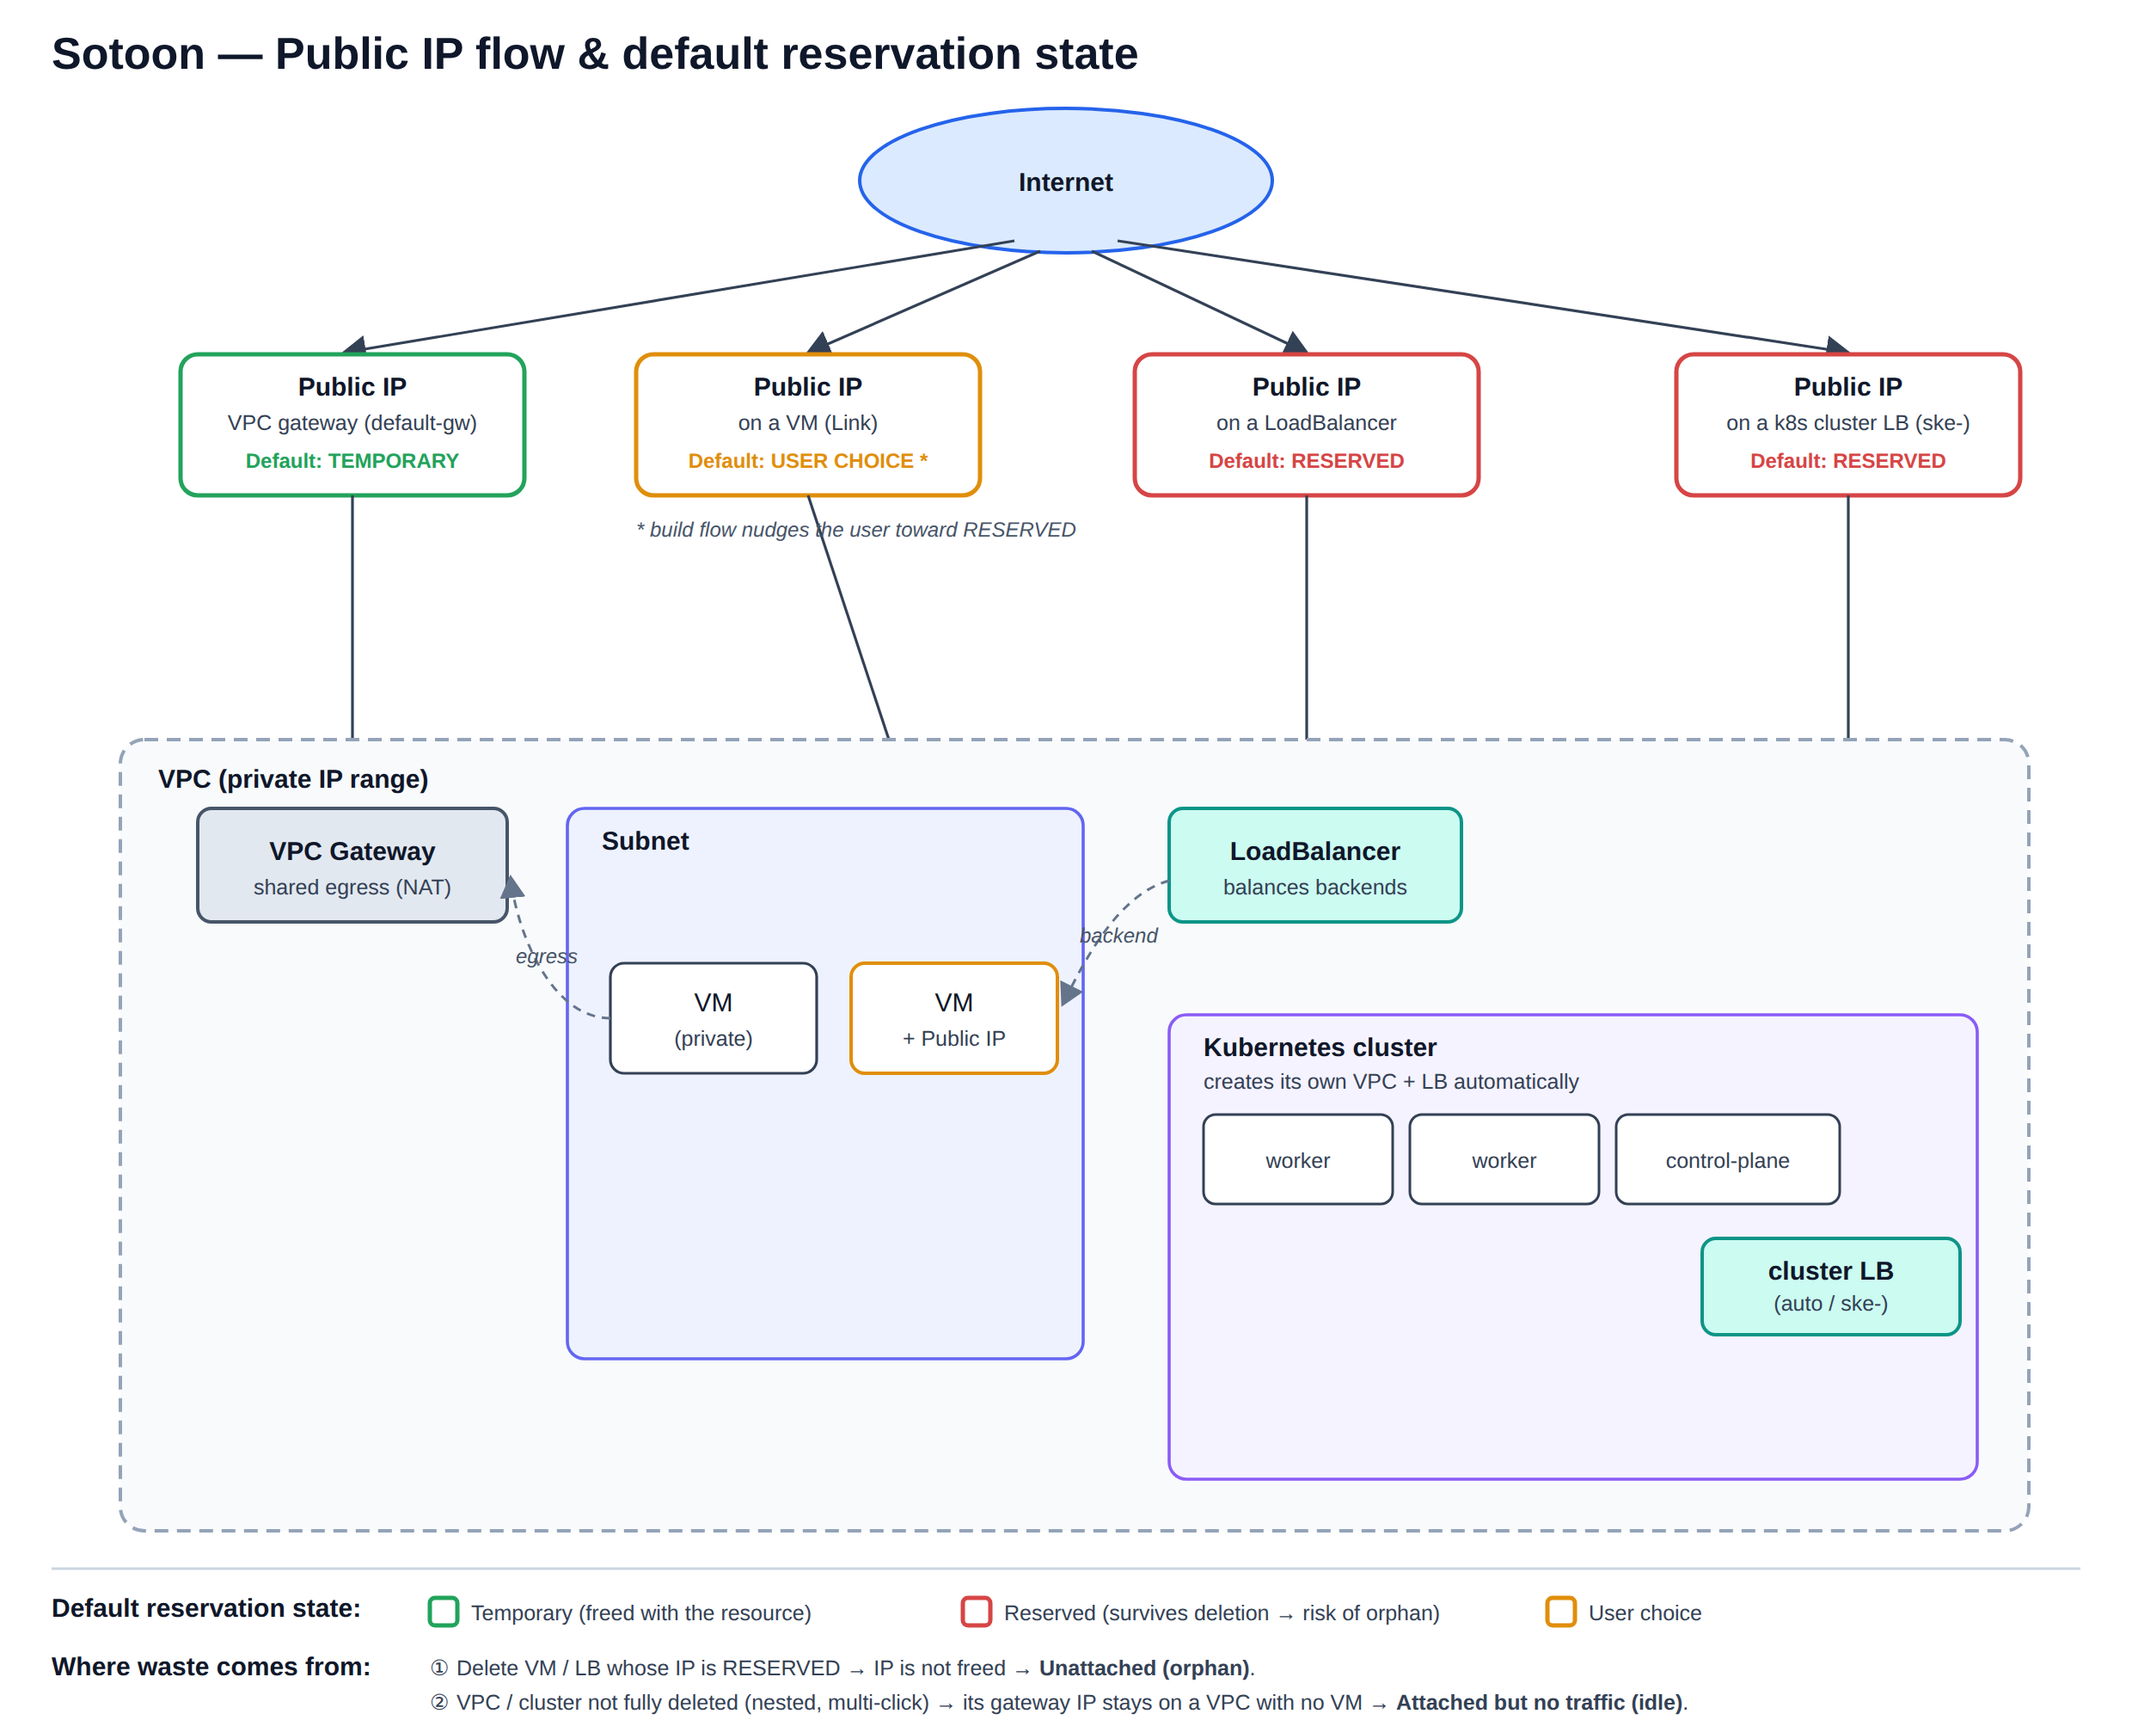
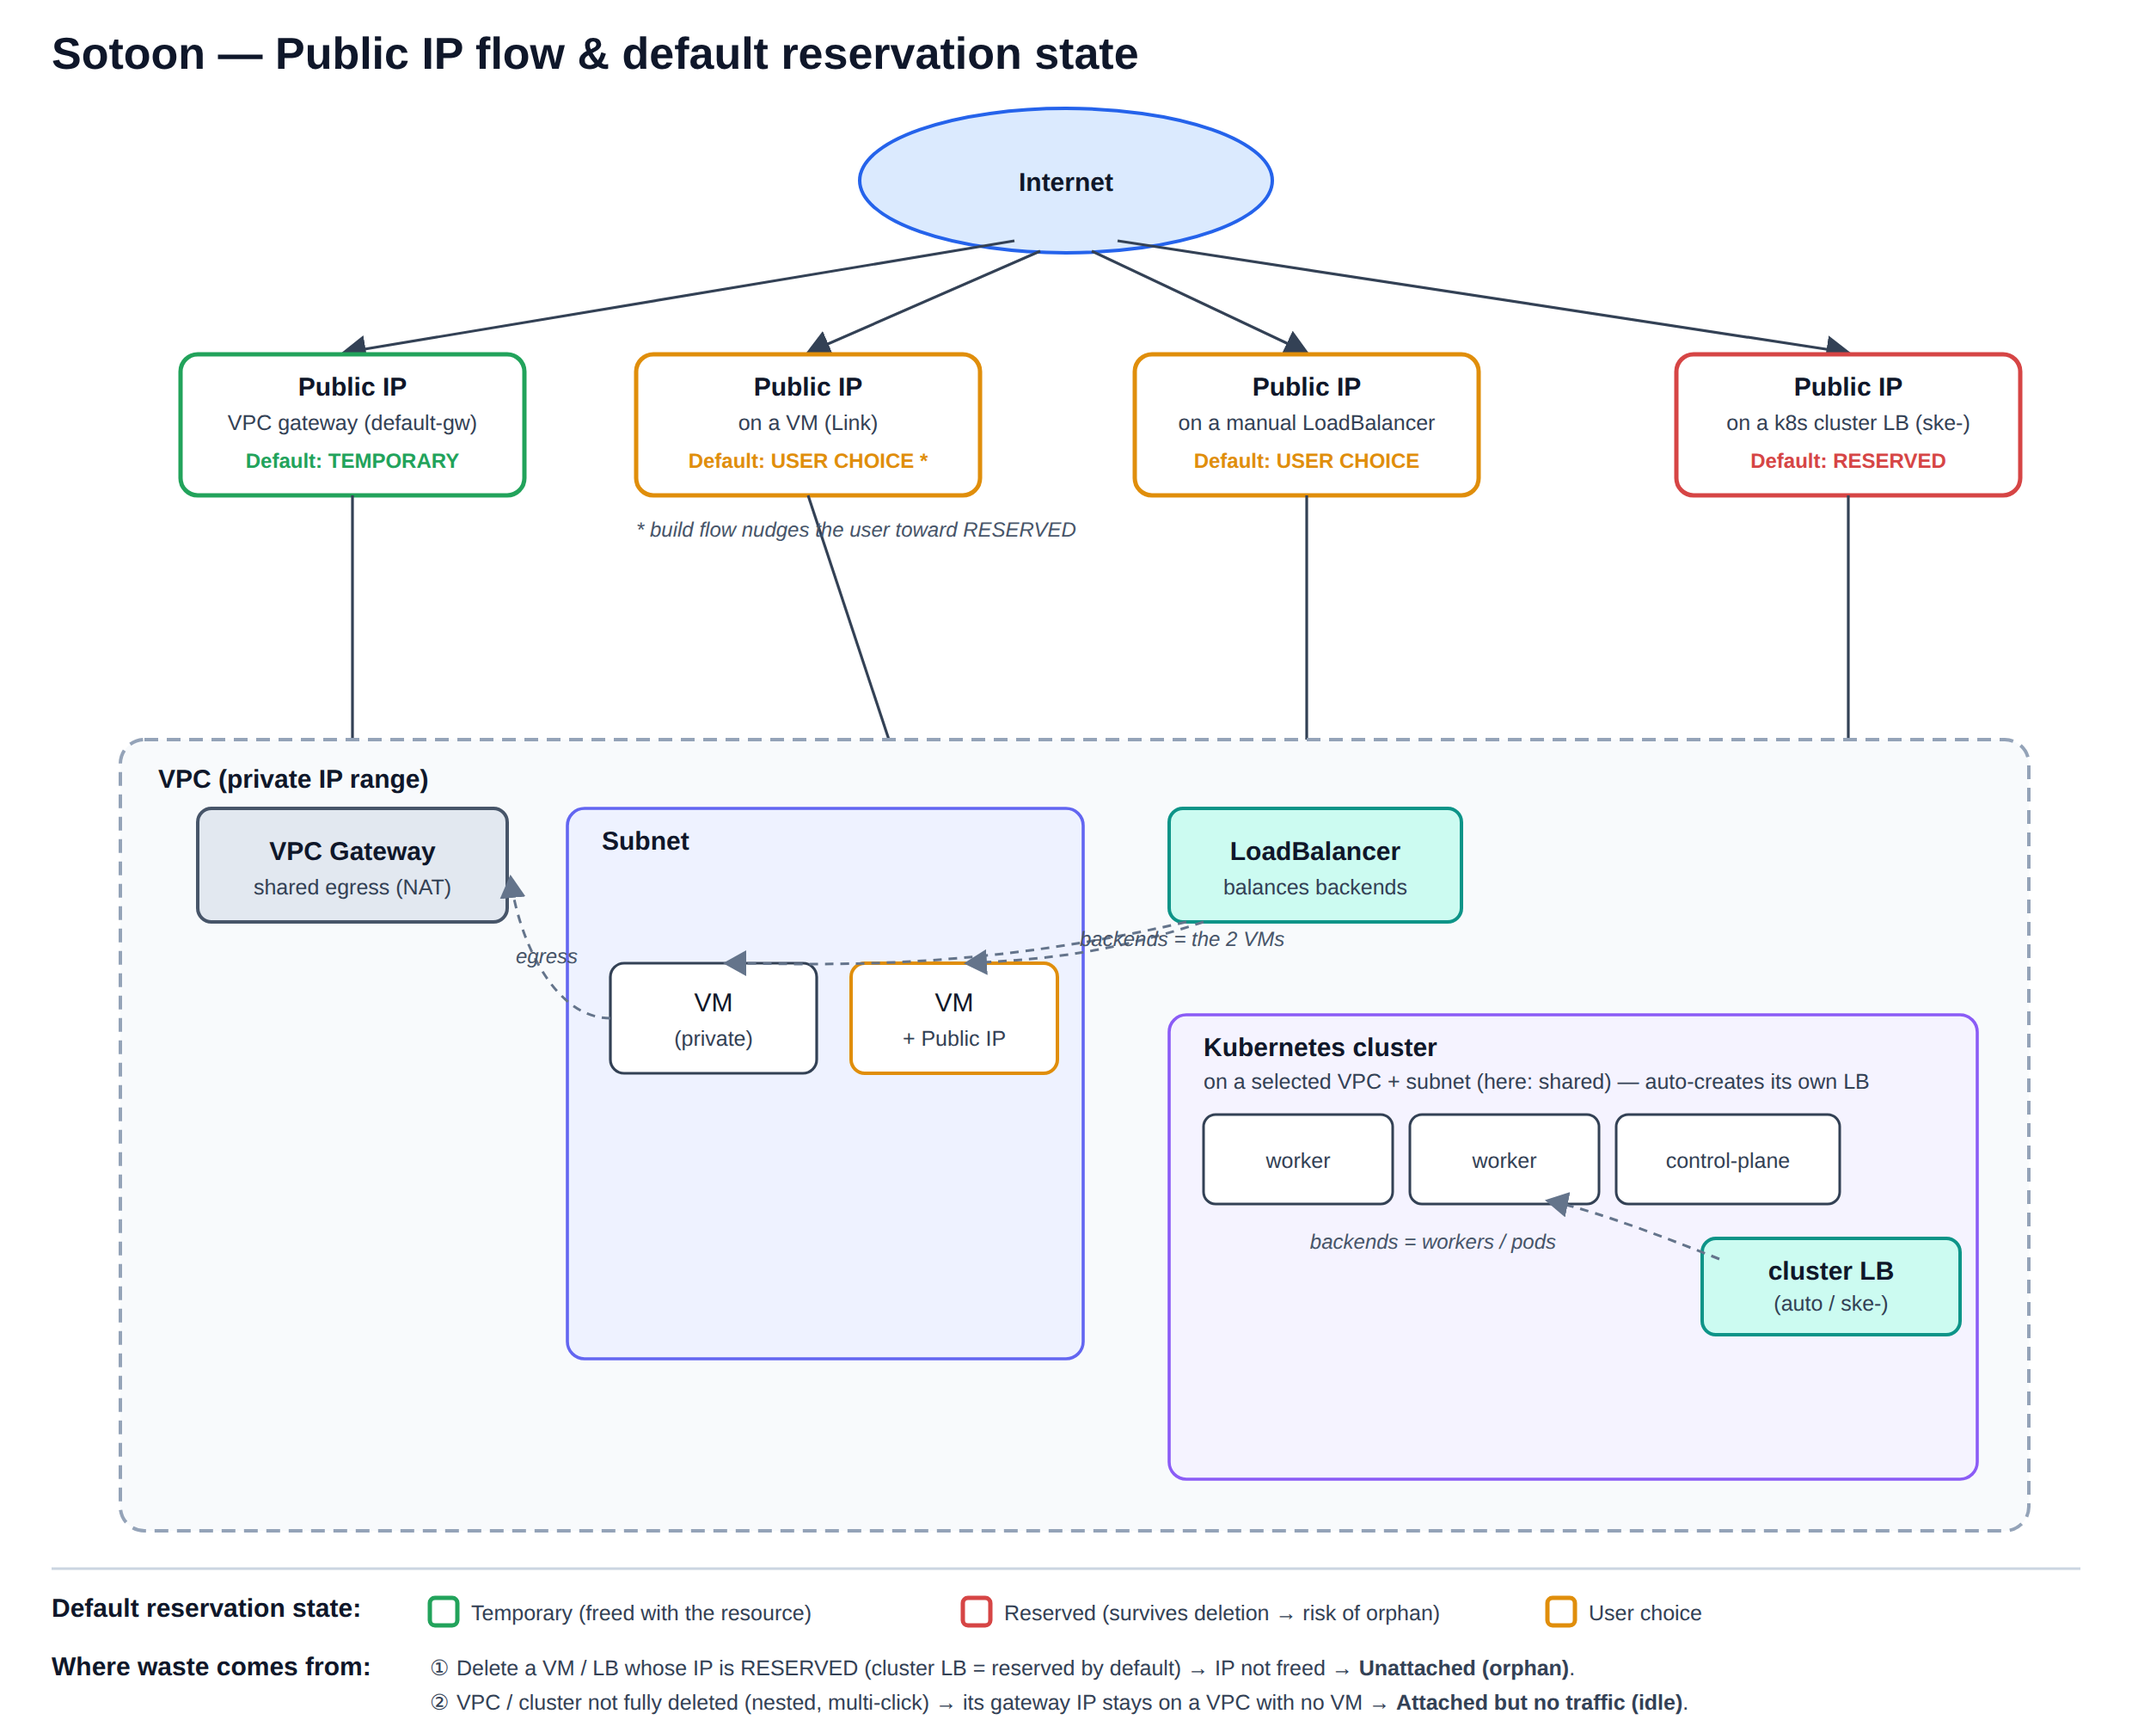
Correct diagram: manual LB IP is user-choice; cluster uses shared VPC
Manual LoadBalancer public IP defaults to user-choice (not reserved) —
only the k8s cluster LB IP is reserved by default. Clarify the cluster
sits on a selected/shared VPC (it does not necessarily create its own
VPC; it always auto-creates its own LB). Add backend arrows: manual LB
balances the registered VMs, cluster LB balances worker nodes/pods. Fix
the matching line in the review summary.

Claude-Session: https://claude.ai/code/session_01Wt8ozn6Tsky35h9kPAnrK2

diff --git a/sotoon/ip-flow-diagram.html b/sotoon/ip-flow-diagram.html
@@ -43,12 +43,12 @@
     <text x="470" y="250" text-anchor="middle" class="sm">on a VM (Link)</text>
     <text x="470" y="272" text-anchor="middle" class="badge" fill="#e08e0b">Default: USER CHOICE *</text>
   </g>
-  <!-- 3: LB manual - reserved -->
+  <!-- 3: LB manual - user choice -->
   <g>
-    <rect x="660" y="206" width="200" height="82" rx="10" fill="#ffffff" stroke="#d64545" stroke-width="2.5"/>
+    <rect x="660" y="206" width="200" height="82" rx="10" fill="#ffffff" stroke="#e08e0b" stroke-width="2.5"/>
     <text x="760" y="230" text-anchor="middle" class="tb">Public IP</text>
-    <text x="760" y="250" text-anchor="middle" class="sm">on a LoadBalancer</text>
-    <text x="760" y="272" text-anchor="middle" class="badge" fill="#d64545">Default: RESERVED</text>
+    <text x="760" y="250" text-anchor="middle" class="sm">on a manual LoadBalancer</text>
+    <text x="760" y="272" text-anchor="middle" class="badge" fill="#e08e0b">Default: USER CHOICE</text>
   </g>
   <!-- 4: cluster LB - reserved -->
   <g>
@@ -92,14 +92,15 @@
   <rect x="680" y="470" width="170" height="66" rx="8" fill="#ccfbf1" stroke="#0d9488" stroke-width="2"/>
   <text x="765" y="500" text-anchor="middle" class="tb">LoadBalancer</text>
   <text x="765" y="520" text-anchor="middle" class="sm">balances backends</text>
-  <!-- LB -> backend dashed -->
-  <path d="M680,512 C650,520 630,560 618,584" stroke="#64748b" stroke-width="1.5" fill="none" stroke-dasharray="5 4" marker-end="url(#arwd)"/>
-  <text x="628" y="548" class="lbl">backend</text>
+  <!-- LB -> backends dashed (the 2 VMs you register) -->
+  <path d="M700,536 C640,556 600,558 562,560" stroke="#64748b" stroke-width="1.5" fill="none" stroke-dasharray="5 4" marker-end="url(#arwd)"/>
+  <path d="M690,536 C560,566 470,560 422,560" stroke="#64748b" stroke-width="1.5" fill="none" stroke-dasharray="5 4" marker-end="url(#arwd)"/>
+  <text x="628" y="550" class="lbl">backends = the 2 VMs</text>
 
   <!-- Kubernetes cluster box -->
   <rect x="680" y="590" width="470" height="270" rx="10" fill="#f5f3ff" stroke="#8b5cf6" stroke-width="1.8"/>
   <text x="700" y="614" class="tb" fill="#6d28d9">Kubernetes cluster</text>
-  <text x="700" y="633" class="sm" fill="#6d28d9">creates its own VPC + LB automatically</text>
+  <text x="700" y="633" class="sm" fill="#6d28d9">on a selected VPC + subnet (here: shared) — auto-creates its own LB</text>
   <rect x="700" y="648" width="110" height="52" rx="7" fill="#ffffff" stroke="#334155" stroke-width="1.5"/>
   <text x="755" y="679" text-anchor="middle" class="sm">worker</text>
   <rect x="820" y="648" width="110" height="52" rx="7" fill="#ffffff" stroke="#334155" stroke-width="1.5"/>
@@ -109,6 +110,9 @@
   <rect x="990" y="720" width="150" height="56" rx="8" fill="#ccfbf1" stroke="#0d9488" stroke-width="2"/>
   <text x="1065" y="744" text-anchor="middle" class="tb" font-size="13">cluster LB</text>
   <text x="1065" y="762" text-anchor="middle" class="sm">(auto / ske-)</text>
+  <!-- cluster LB -> worker nodes / pods -->
+  <path d="M1000,732 C950,712 920,702 900,698" stroke="#64748b" stroke-width="1.5" fill="none" stroke-dasharray="5 4" marker-end="url(#arwd)"/>
+  <text x="905" y="726" text-anchor="end" class="lbl">backends = workers / pods</text>
 
   <!-- footnote for user choice -->
   <text x="370" y="312" class="lbl">* build flow nudges the user toward RESERVED</text>
@@ -127,7 +131,7 @@
 
   <!-- waste outcomes -->
   <text x="30" y="974" class="tb" fill="#b91c1c">Where waste comes from:</text>
-  <text x="250" y="974" class="sm">① Delete VM / LB whose IP is RESERVED → IP is not freed → <tspan font-weight="700">Unattached (orphan)</tspan>.</text>
+  <text x="250" y="974" class="sm">① Delete a VM / LB whose IP is RESERVED (cluster LB = reserved by default) → IP not freed → <tspan font-weight="700">Unattached (orphan)</tspan>.</text>
   <text x="250" y="994" class="sm">② VPC / cluster not fully deleted (nested, multi-click) → its gateway IP stays on a VPC with no VM → <tspan font-weight="700">Attached but no traffic (idle)</tspan>.</text>
 </svg>
 </body></html>

diff --git a/sotoon/review-and-action-plan.md b/sotoon/review-and-action-plan.md
@@ -83,7 +83,7 @@
 | فلو | باگ/مشکل | خروجی |
 |---|---|---|
 | حذفِ وی ام | آیپیِ رزرو پاک نمیشه و بابتِ هزینهاش یاداوری نمیشه | Unattached |
-| حذفِ لود بالانسرِ دستی | آیپی بایدیفالت رزروئه، با حذفِ LB میمونه، یاداوری نمیشه | Unattached (non-ske) |
+| حذفِ لود بالانسرِ دستی | آیپیش به انتخابِ کاربره (دیفالت رزرو نیست)؛ اگه کاربر رزرو زده باشه با حذفِ LB آزاد نمیشه و یاداوری نمیشه | Unattached (non-ske) |
 | حذفِ کلاستر کوبر | LB سیستمی پاک میشه ولی آیپیِ رزروش میمونه | Unattached، پیشوندِ `ske-` = ۶۴ |
 | باگِ LBِ نصفه | کاربر وسطِ ساخت drop میکنه، آیپی ساخته و رها میشه | Unattached |
 
